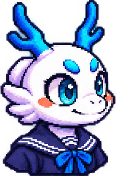
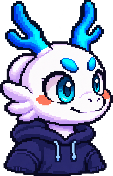
Dress Yoryongi's dialogue portrait in a navy hoodie

diff --git a/game.js b/game.js
@@ -422,10 +422,12 @@ function closePanel() {
   keys.clear();
 }
 function dialogue(name, asset, line, button, fn) {
-  const side = asset === "hero" ? "right" : "left";
+  const hero = asset === "hero";
+  const side = hero ? "right" : "left";
+  const portrait = `assets/portraits/dialogue/${asset}.png${hero ? "?v=hoodie" : ""}`;
   show("dialogue", name, `<div class="dialogue-stage" data-side="${side}">
     <div class="dialogue-speaker">
-      <img class="dialogue-portrait" src="assets/portraits/dialogue/${asset}.png" alt="">
+      <img class="dialogue-portrait" src="${portrait}" alt="">
       <h2 id="paneltitle" class="dialogue-name">${name}</h2>
     </div>
     <div class="dialogue-copy" tabindex="0"><p>${line}</p></div>

diff --git a/index.html b/index.html
@@ -126,7 +126,7 @@
     <script src="quests.js?v=ward-strike"></script>
     <script src="bosses.js?v=ward-strike"></script>
     <script src="victory.js?v=polish"></script>
-    <script src="game.js?v=ward-strike"></script>
+    <script src="game.js?v=hero-hoodie"></script>
     <script src="assets/world/atlas.js"></script>
     <script src="assets/world/school-rooms.js"></script>
     <script src="assets/world/fixtures.js"></script>
